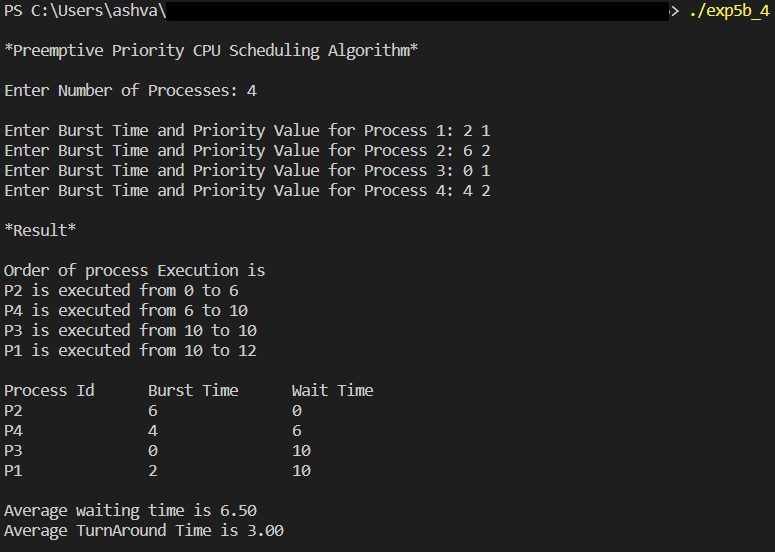
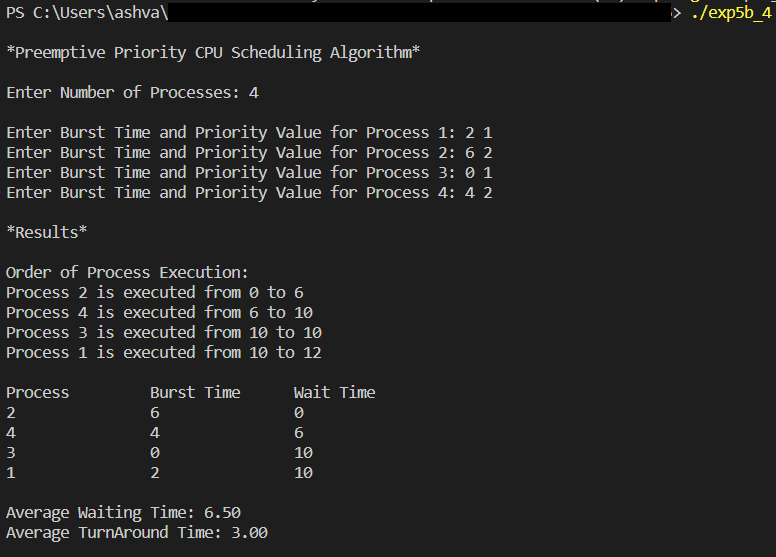
os - exp5- final mod

diff --git a/CS432P (OS)/exp5/exp5b_3.c b/CS432P (OS)/exp5/exp5b_3.c
@@ -6,7 +6,6 @@
 struct Process
 {
     int pid;
-    /// @brief
     int arrival_time;
     int burst_time;
     int remaining;
@@ -14,7 +13,7 @@ struct Process
     int wait_time;
     int turn_time;
 };
-
+ 
 void SJF(struct Process p[], int n);
 void CalculateWaitingTime(struct Process p[], int n);
 void CalculateTurnaroundTime(struct Process p[], int n);
@@ -62,13 +61,11 @@ int main()
 
 void SJF(struct Process p[], int n)
 {
-    int time = 0;
-    int count = 0;
+    int time = 0, count = 0;
 
     while (count != n)
     {
-        int shortest = -1;
-        int shortest_burst_time = INT_MAX;
+        int shortest = -1, shortest_burst_time = INT_MAX;
 
         // Find process with shortest remaining burst time
         for (int i = 0; i < n; i++)
@@ -82,9 +79,7 @@ void SJF(struct Process p[], int n)
 
         // If no process is available, increment time
         if (shortest == -1)
-        {
             time++;
-        }
         else
         {
             // Decrement remaining burst time of selected process
@@ -110,17 +105,13 @@ void SJF(struct Process p[], int n)
 void CalculateWaitingTime(struct Process p[], int n)
 {
     for (int i = 0; i < n; i++)
-    {
         p[i].wait_time = p[i].comp_time - p[i].arrival_time - p[i].burst_time;
-    }
 }
 
 void CalculateTurnaroundTime(struct Process p[], int n)
 {
     for (int i = 0; i < n; i++)
-    {
         p[i].turn_time = p[i].comp_time - p[i].arrival_time;
-    }
 }
 
 void PrintResults(struct Process p[], int n, float avg_wt, float avg_tat)
@@ -142,9 +133,7 @@ void PrintResults(struct Process p[], int n, float avg_wt, float avg_tat)
     printf("\n*Result*\n");
     printf("\nProcess \tArrival Time \tBurst Time \tCompletion Time \tWaiting Time \tTurnaround Time\n");
     for (int i = 0; i < n; i++)
-    {
         printf("%d \t\t%d \t\t%d \t\t%d \t\t\t%d \t\t\t%d\n", p[i].pid, p[i].arrival_time, p[i].burst_time, p[i].comp_time, p[i].wait_time, p[i].turn_time);
-    }
     printf("\nAverage Waiting Time: %.2f\n", avg_wt);
     printf("Average Turnaround Time: %.2f\n\n", avg_tat);
 }
@@ -164,9 +153,7 @@ int GetPositiveIntegerInput(char message[])
     {
         value = GetIntegerInput(message);
         if (value < 0)
-        {
             printf("Invalid Input Error: Please enter a positive integer.\n");
-        }
     } while (value < 0);
     return value;
 }

diff --git a/CS432P (OS)/exp5/exp5b_4.c b/CS432P (OS)/exp5/exp5b_4.c
@@ -53,34 +53,31 @@ int main()
 
     int t = 0;
 
-    printf("\n*Result*\n");
+    printf("\n*Results*\n");
 
-    printf("\nOrder of process Execution is\n");
+    printf("\nOrder of Process Execution:\n");
     for (int i = 0; i < n; i++)
     {
-        printf("P%d is executed from %d to %d\n", index[i], t, t + burst[i]);
+        printf("Process %d is executed from %d to %d\n", index[i], t, t + burst[i]);
         t += burst[i];
     }
-    printf("\n");
-    printf("Process Id\tBurst Time\tWait Time\n");
+    printf("\nProcess \tBurst Time\tWait Time\n");
     int wait_time = 0;
     int total_wait_time = 0;
     for (int i = 0; i < n; i++)
     {
-        printf("P%d\t\t%d\t\t%d\n", index[i], burst[i], wait_time);
+        printf("%d \t\t%d \t\t%d\n", index[i], burst[i], wait_time);
         total_wait_time += wait_time;
         wait_time += burst[i];
     }
 
     float avg_wait_time = (float)total_wait_time / n;
-    printf("\nAverage waiting time is %.2f\n", avg_wait_time);
+    printf("\nAverage Waiting Time: %.2f\n", avg_wait_time);
 
     int total_Turn_Around = 0;
     for (int i = 0; i < n; i++)
-    {
         total_Turn_Around += burst[i];
-    }
     float avg_Turn_Around = (float)total_Turn_Around / n;
-    printf("Average TurnAround Time is %.2f\n\n", avg_Turn_Around);
+    printf("Average TurnAround Time: %.2f\n\n", avg_Turn_Around);
     return 0;
 }
